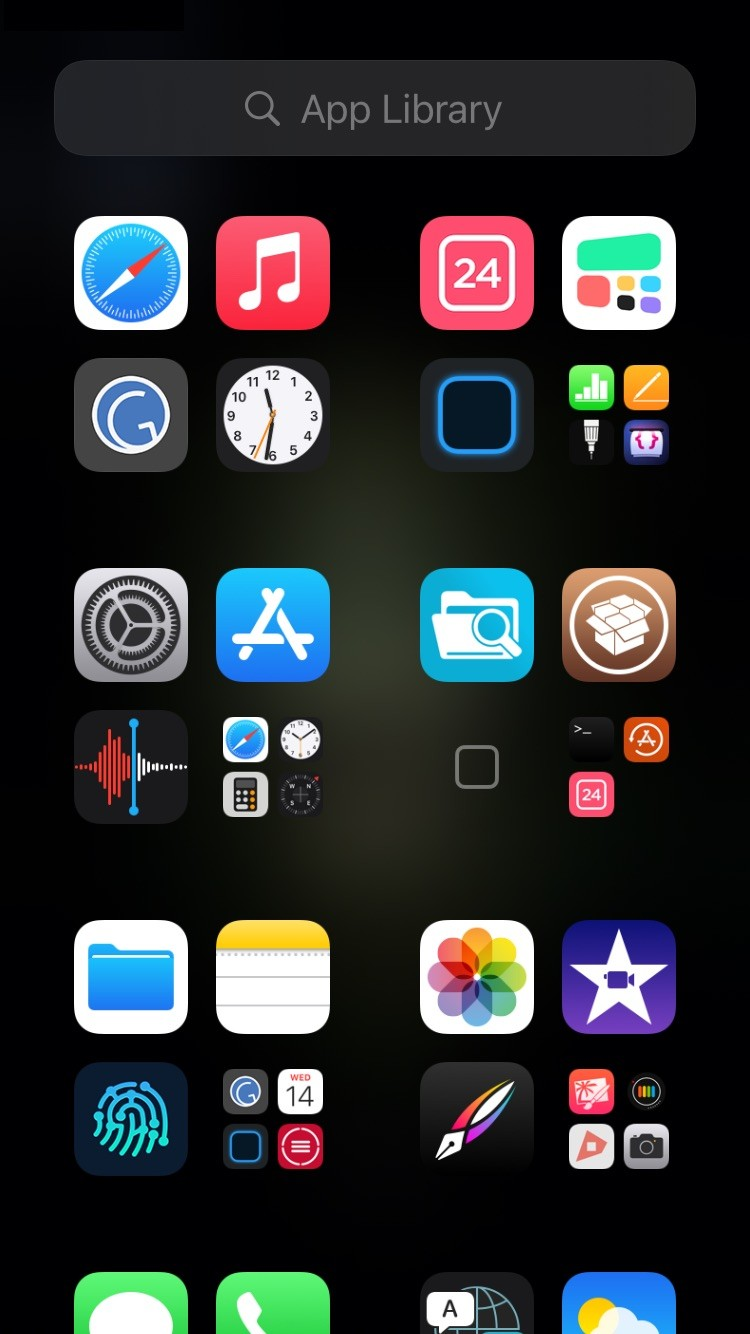
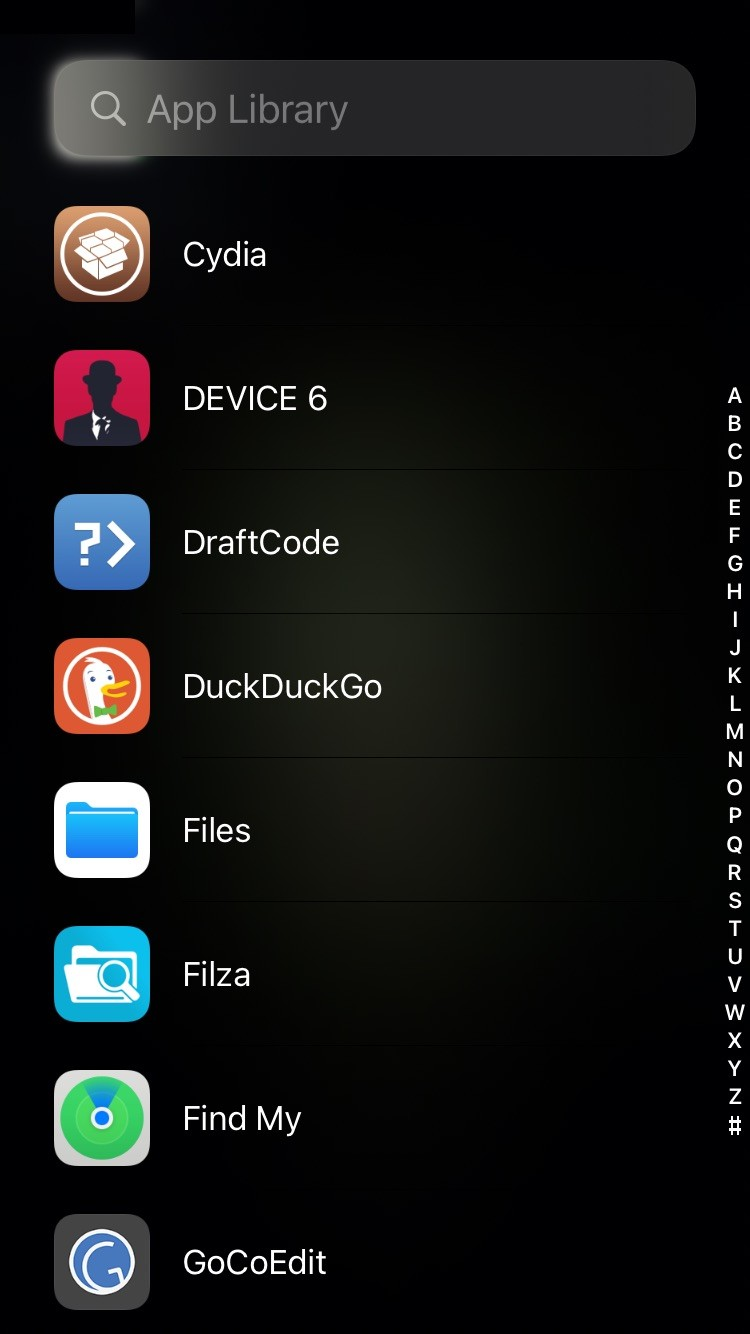
version 1.2
- Added ability to disable App Library
- Added ability to choose if search field should be rounded or square
- Added ability to force hide or show headers in Alphabetic List
- Added ability to hide titles inside category folders
- Added ability to hide labels inside category folders
- reorganized and updated settings
- prepared code for future translations

diff --git a/BigBoss_description.html b/BigBoss_description.html
@@ -4,10 +4,15 @@
 <strong>For iOS 14 and above</strong><br>
 <br>
 <strong>What you can do with this tweak:</strong><br>
-- Choose First View (Categories, Alphabetic List)<br>
-- Categories (Show/Hide)<br>
-- Labels of Categories (Show/Hide)<br>
-- Background of Categories (Show/Hide)<br>
+- Select Mode (Default, Categories and Alphabetic List, Alphabetic List only, Disabled)<br>
+- Alphabetic List Settings:<br>
+- - Rounded Search Field (Enabled/Disabled)<br>
+- - List Headers (Default/Enabled/Disabled)<br>
+- Categories Settings:<br>
+- - Labels of Categories (Show/Hide)<br>
+- - Background of Categories (Show/Hide)<br>
+- - Titles inside Folders (Show/Hide)<br>
+- - Labels inside Folders (Show/Hide)<br>
 <br>
 Configure options from Settings.<br>
 <br>
@@ -21,8 +26,5 @@ This tweak is open sourced <a href="https://github.com/tomaszpoliszuk/AppLibrary
 </div>
 <div style="text-align:center;">
 <img width="268" src="applibrarycontroller3.jpg">
-</div>
-<div style="text-align:center;">
-<img width="268" src="applibrarycontroller4.jpg">
 </div>
 </div>

diff --git a/AppLibraryControllerSettings/AppLibraryControllerSettings.mm b/AppLibraryControllerSettings/AppLibraryControllerSettings.mm
@@ -1,8 +1,25 @@
 #import <Preferences/PSListController.h>
 #import <Preferences/PSSpecifier.h>
-#include <spawn.h>
+
+//typedef enum {
+//	None					= 0,
+//	RestartRenderServer		= (1 << 0), // 1 in decimal, also relaunch backboardd
+//	SnapshotTransition		= (1 << 1), // 2 in decimal
+//	FadeToBlackTransition	= (1 << 2), // 4 in decimal
+//} SBSRelaunchActionStyle;
 
 NSString *domainString = @"com.tomaszpoliszuk.applibrarycontroller";
+
+@interface BSAction : NSObject
+@end
+@interface SBSRelaunchAction : BSAction
++ (id)actionWithReason:(id)arg1 options:(unsigned long long)arg2 targetURL:(id)arg3;
+@end
+
+@interface FBSSystemService : NSObject
++ (id)sharedService;
+- (void)sendActions:(id)arg1 withResult:(id /* block */)arg2;
+@end
 
 @interface PSListController (AppLibraryController)
 @end
@@ -28,9 +45,10 @@ NSString *domainString = @"com.tomaszpoliszuk.applibrarycontroller";
 -(void)respringDevice {
 	UIAlertController *confirmRespringAlert = [UIAlertController alertControllerWithTitle:@"Respring Device" message:@"Do you want to respring device?" preferredStyle:UIAlertControllerStyleAlert];
 	UIAlertAction *confirm = [UIAlertAction actionWithTitle:@"Confirm" style:UIAlertActionStyleDefault handler:^(UIAlertAction * _Nonnull action) {
-		pid_t pid;
-		const char *argv[] = {"sbreload", NULL};
-		posix_spawn(&pid, "/usr/bin/sbreload", NULL, NULL, (char* const*)argv, NULL);
+		SBSRelaunchAction *respringAction = [NSClassFromString(@"SBSRelaunchAction") actionWithReason:@"RestartRenderServer" options:4 targetURL:[NSURL URLWithString:@"prefs:root=App%20Library%20Controller"]];
+		FBSSystemService *frontBoardService = [NSClassFromString(@"FBSSystemService") sharedService];
+		NSSet *actions = [NSSet setWithObject:respringAction];
+		[frontBoardService sendActions:actions withResult:nil];
 	}];
 	UIAlertAction *cancel = [UIAlertAction actionWithTitle:@"Cancel" style:UIAlertActionStyleCancel handler:nil];
 	[confirmRespringAlert addAction:cancel];
@@ -60,6 +78,12 @@ NSString *domainString = @"com.tomaszpoliszuk.applibrarycontroller";
 -(void)knownIssues {
 	NSURL *knownIssues = [NSURL URLWithString:@"https://github.com/tomaszpoliszuk/AppLibraryController/issues"];
 	[[UIApplication sharedApplication] openURL:knownIssues options:@{} completionHandler:nil];
+}
+-(void)TomaszPoliszukAtBigBoss {
+	UIApplication *application = [UIApplication sharedApplication];
+	NSString *tweakName = @"App+Library+Controller";
+	NSURL *twitterWebsite = [NSURL URLWithString:[@"http://apt.thebigboss.org/developer-packages.php?name=" stringByAppendingString:tweakName]];
+	[application openURL:twitterWebsite options:@{} completionHandler:nil];
 }
 -(void)TomaszPoliszukAtGithub {
 	UIApplication *application = [UIApplication sharedApplication];

diff --git a/README.md b/README.md
@@ -5,10 +5,15 @@ Control App Library
 iOS 14 and above
 
 ## What you can do with this tweak:
-* Choose First View (Categories, Alphabetic List)
-* Categories (Show/Hide)
-* Labels of Categories (Show/Hide)
-* Background of Categories (Show/Hide)
+* Select Mode (Default, Categories and Alphabetic List, Alphabetic List only, Disabled)
+* Alphabetic List Settings:
+    * Rounded Search Field (Enabled/Disabled)
+    * List Headers (Default/Enabled/Disabled)
+* Categories Settings:
+    * Labels of Categories (Show/Hide)
+    * Background of Categories (Show/Hide)
+    * Titles inside Folders (Show/Hide)
+    * Labels inside Folders (Show/Hide)
 
 **Configure options from Settings.**
 
@@ -17,4 +22,3 @@ iOS 14 and above
 ![settings](screenshots/applibrarycontroller1.png)
 ![app library example](screenshots/applibrarycontroller2.jpg)
 ![app library example](screenshots/applibrarycontroller3.jpg)
-![app library example](screenshots/applibrarycontroller4.jpg)
